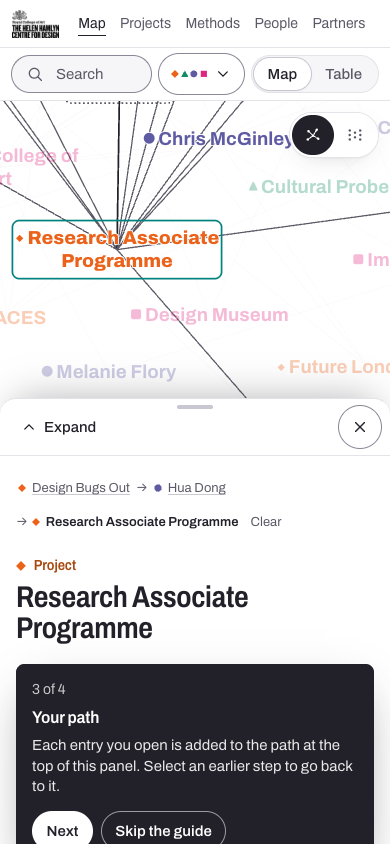
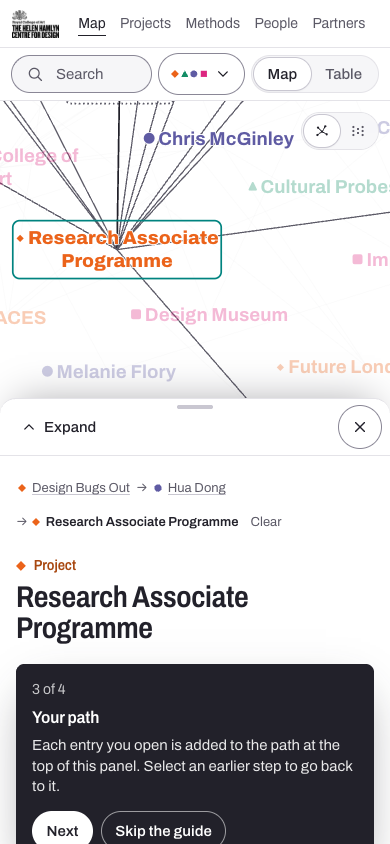
Quieter arrangement switch, matching the Map/Table control
Claude-Session: https://claude.ai/code/session_014KayvLjfZAn1qfA8mMiKjx

diff --git a/src/components/explore/GraphView.tsx b/src/components/explore/GraphView.tsx
@@ -655,11 +655,11 @@ export function GraphView() {
       {mounted && (
         <fieldset className="absolute right-3 top-3 z-10 md:right-4 md:top-4">
           <legend className="sr-only">Arrange the map</legend>
-          <div className="flex rounded-full bg-paper/95 p-0.5 shadow-[0_1px_2px_rgb(34_33_42/0.08),0_8px_24px_-12px_rgb(34_33_42/0.25)] ring-1 ring-rule backdrop-blur-sm">
+          <div className="flex rounded-full bg-surface/95 p-0.5 ring-1 ring-rule backdrop-blur-sm">
             {(['constellation', 'columns'] as const).map((a) => (
               <label
                 key={a}
-                className="relative inline-flex min-h-10 cursor-pointer select-none items-center gap-2 rounded-full px-3 text-[0.875rem] font-medium text-ink-muted transition-colors hover:text-ink has-[:checked]:bg-ink has-[:checked]:text-paper has-[:focus-visible]:outline-2 has-[:focus-visible]:outline-offset-2 has-[:focus-visible]:outline-accent sm:px-3.5"
+                className="relative inline-flex min-h-8 cursor-pointer select-none items-center gap-1.5 rounded-full px-2.5 text-[0.8125rem] font-medium text-ink-muted transition-colors hover:text-ink has-[:checked]:bg-paper has-[:checked]:text-ink has-[:checked]:shadow-[0_1px_2px_rgb(34_33_42/0.12)] has-[:checked]:ring-1 has-[:checked]:ring-rule-strong has-[:focus-visible]:outline-2 has-[:focus-visible]:outline-offset-2 has-[:focus-visible]:outline-accent sm:px-3 [&_svg]:size-4"
               >
                 <input
                   type="radio"
